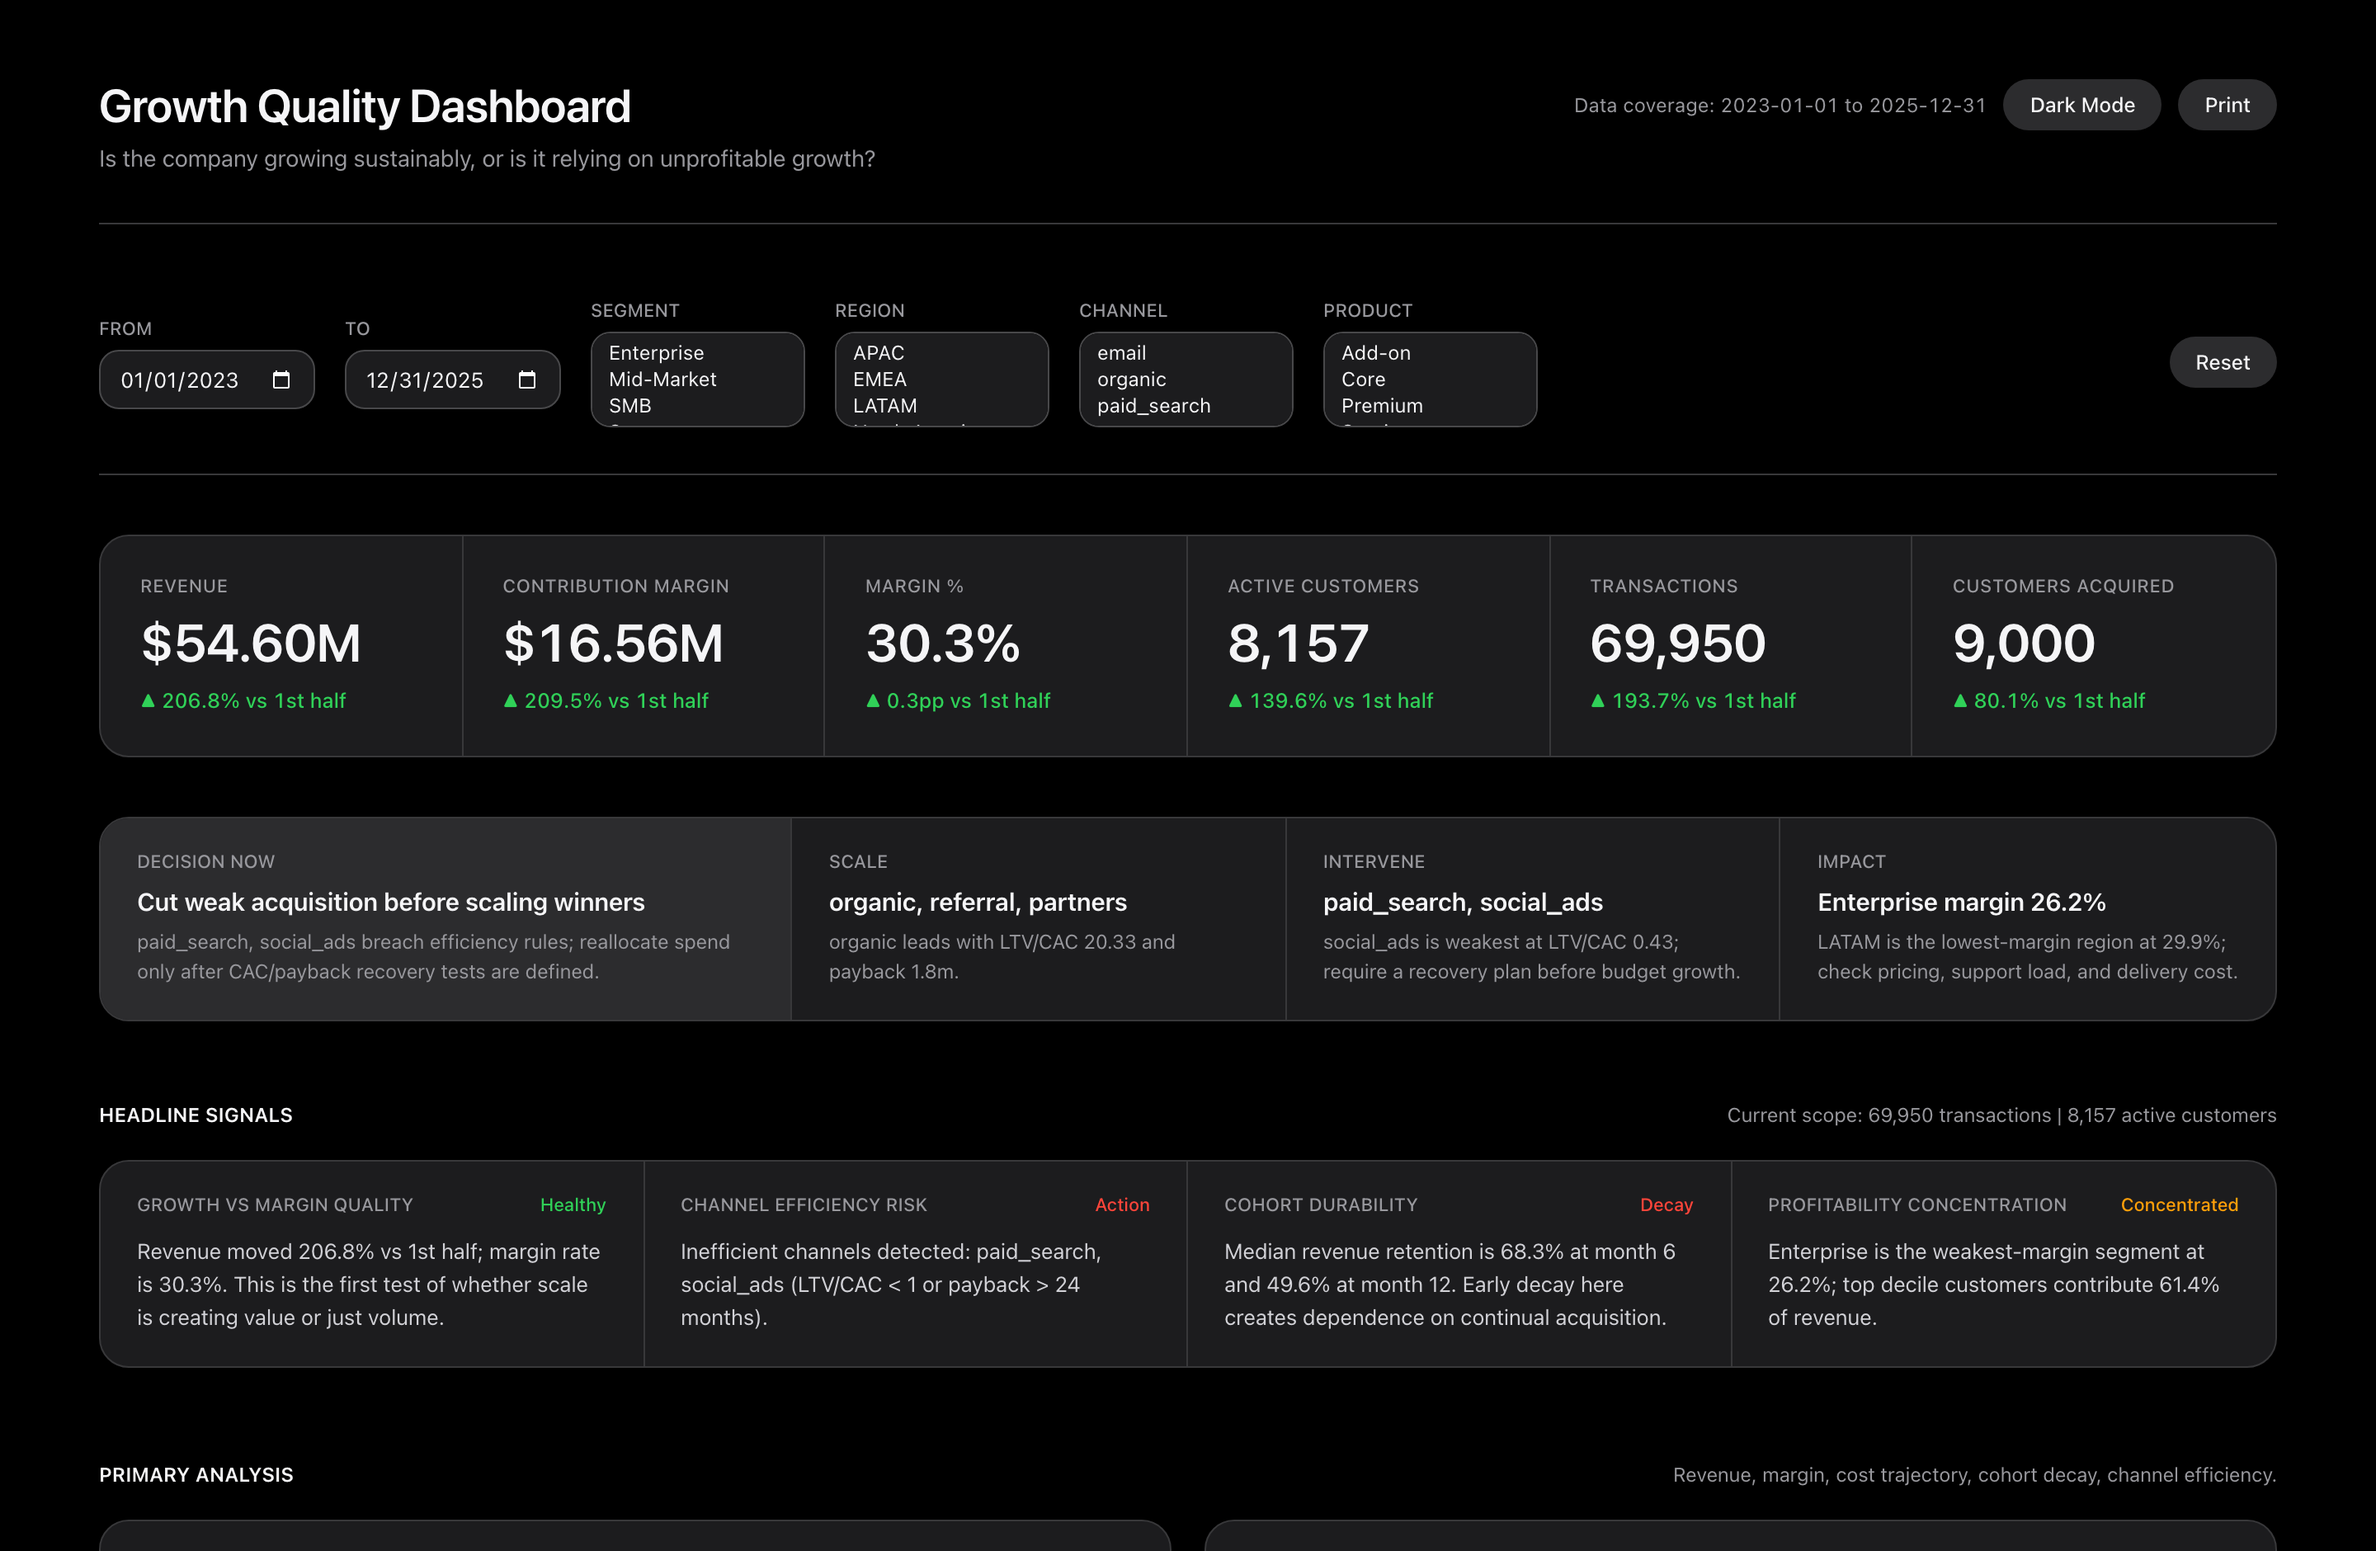
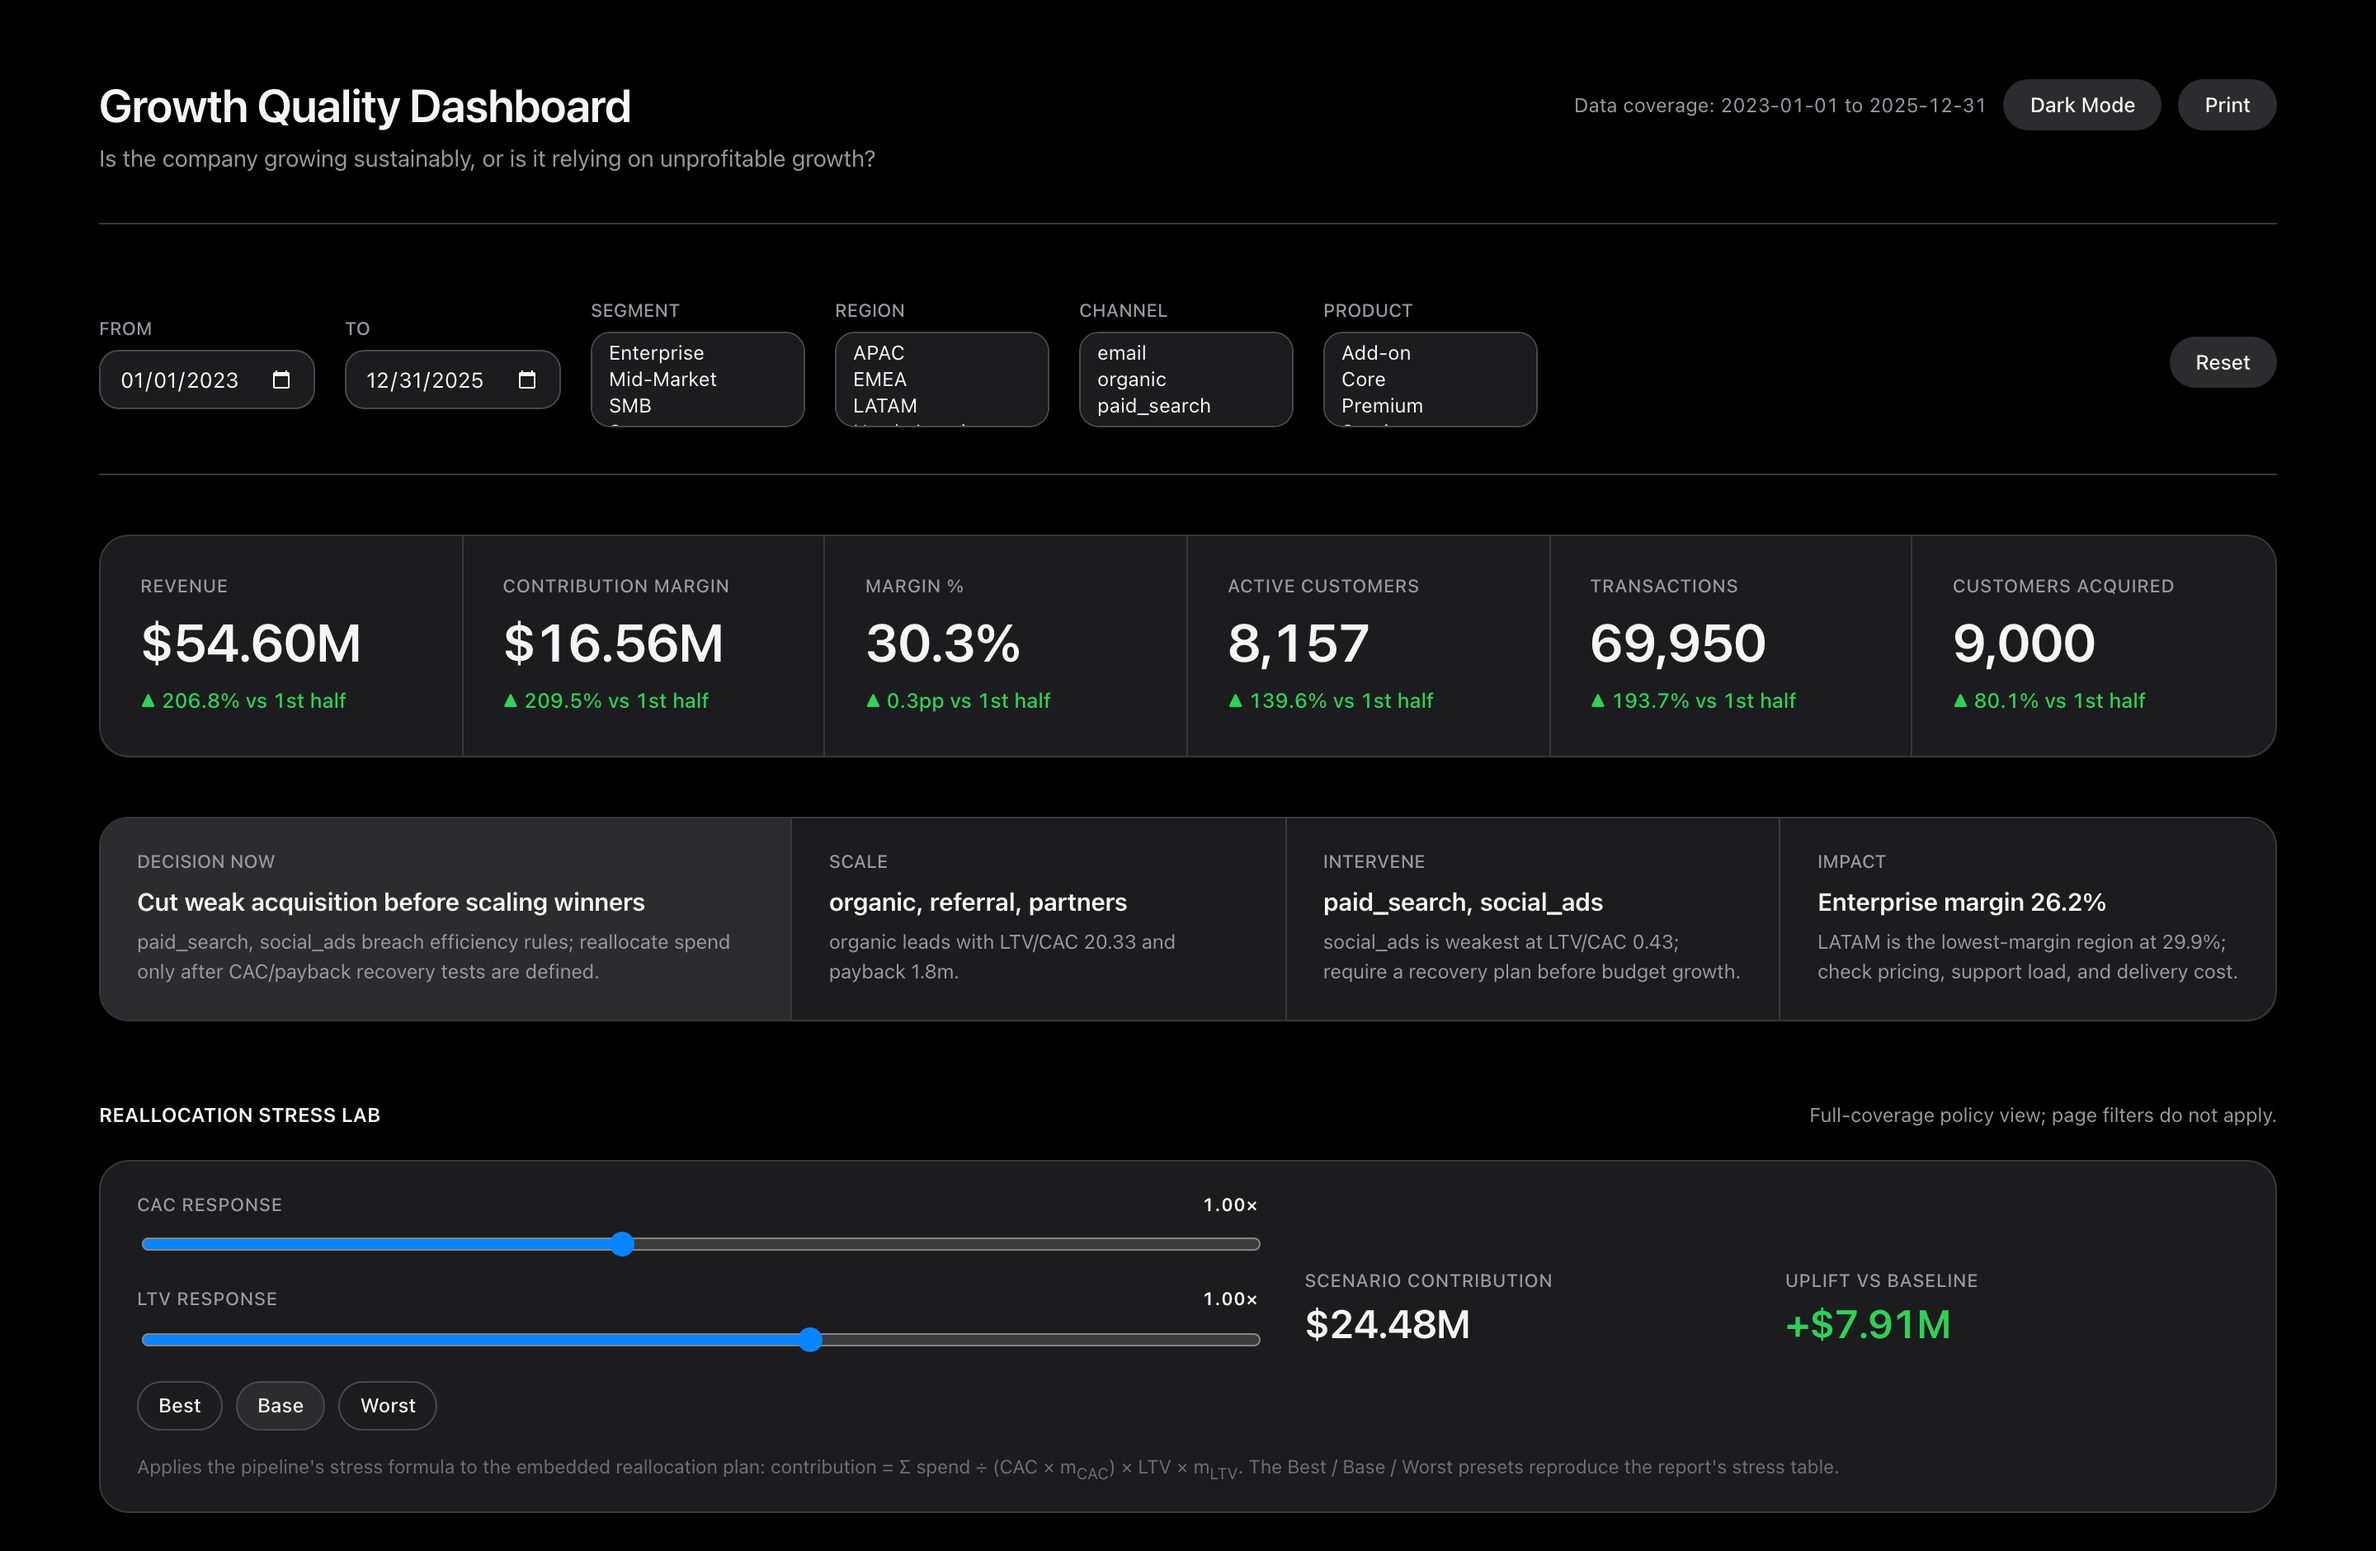
docs(release): stress lab notes, refreshed screenshots — v2.3.0

Changed region(s): [[0.0312, 0.7713, 0.9688, 1.0], [0.75, 0.7096, 0.9688, 0.7404], [0.0312, 0.7096, 0.1562, 0.7404]]

diff --git a/README.md b/README.md
@@ -109,7 +109,7 @@ tests/        unit, contract, parity, and stage-integration tests
 
 | Output | Description |
 |--------|-------------|
-| [`outputs/dashboard/growth-quality-dashboard.html`](outputs/dashboard/growth-quality-dashboard.html) | Self-contained interactive dashboard — filters, tooltips, light/dark mode, embedded data |
+| [`outputs/dashboard/growth-quality-dashboard.html`](outputs/dashboard/growth-quality-dashboard.html) | Self-contained interactive dashboard — filters, tooltips, light/dark mode, embedded data, and a what-if stress lab that mirrors the pipeline's scenario engine |
 | [`outputs/charts/`](outputs/charts/) | Nineteen publication-ready PNGs, one per analytical question, covering trend, composition, ranking, distribution, cohort, concentration, and scenario views |
 | [`outputs/reports/revenue_unit_economics_report.pdf`](outputs/reports/revenue_unit_economics_report.pdf) | 27-page analytical report (PDF): findings with charts inline, methodology, risks, and prioritized recommendations |
 | [`outputs/reports/qa_report.md`](outputs/reports/qa_report.md) | Final publication gate covering data consistency, calculations, analytical integrity, visual exports, and reproducibility |

diff --git a/CHANGELOG.md b/CHANGELOG.md
@@ -2,6 +2,22 @@
 
 All notable changes to this project are documented in this file.
 
+## [2.3.0] - 2026-07-10
+
+### Added
+
+- Reallocation stress lab in the dashboard: CAC and LTV response sliders apply
+  the pipeline's stress formula to the embedded per-channel plan, with
+  Best / Base / Worst presets that reproduce the report's stress table.
+  Verified in-browser against the scenario engine's numbers and pinned by a
+  payload parity test.
+
+### Fixed
+
+- Report prose said the stress multipliers apply "to the scaled channels";
+  the engine applies them across every channel in the plan. The two captions
+  now match the code.
+
 ## [2.2.0] - 2026-07-10
 
 ### Added

diff --git a/docs/ARCHITECTURE.md b/docs/ARCHITECTURE.md
@@ -175,3 +175,8 @@ which a small `decodePayload()` shim expands back into record objects in the
 browser. That encoding keeps the shipped file roughly a third of the row-wise
 size at identical fidelity. Charts render through a `viewBox` so they scale
 responsively without horizontal overflow on small screens.
+
+The reallocation stress lab embeds the per-channel policy outputs and applies
+the pipeline's own stress formula client-side; its Best / Base / Worst presets
+reproduce the report's stress table, and a parity test pins the embedded plan
+to the scenario engine's numbers.
